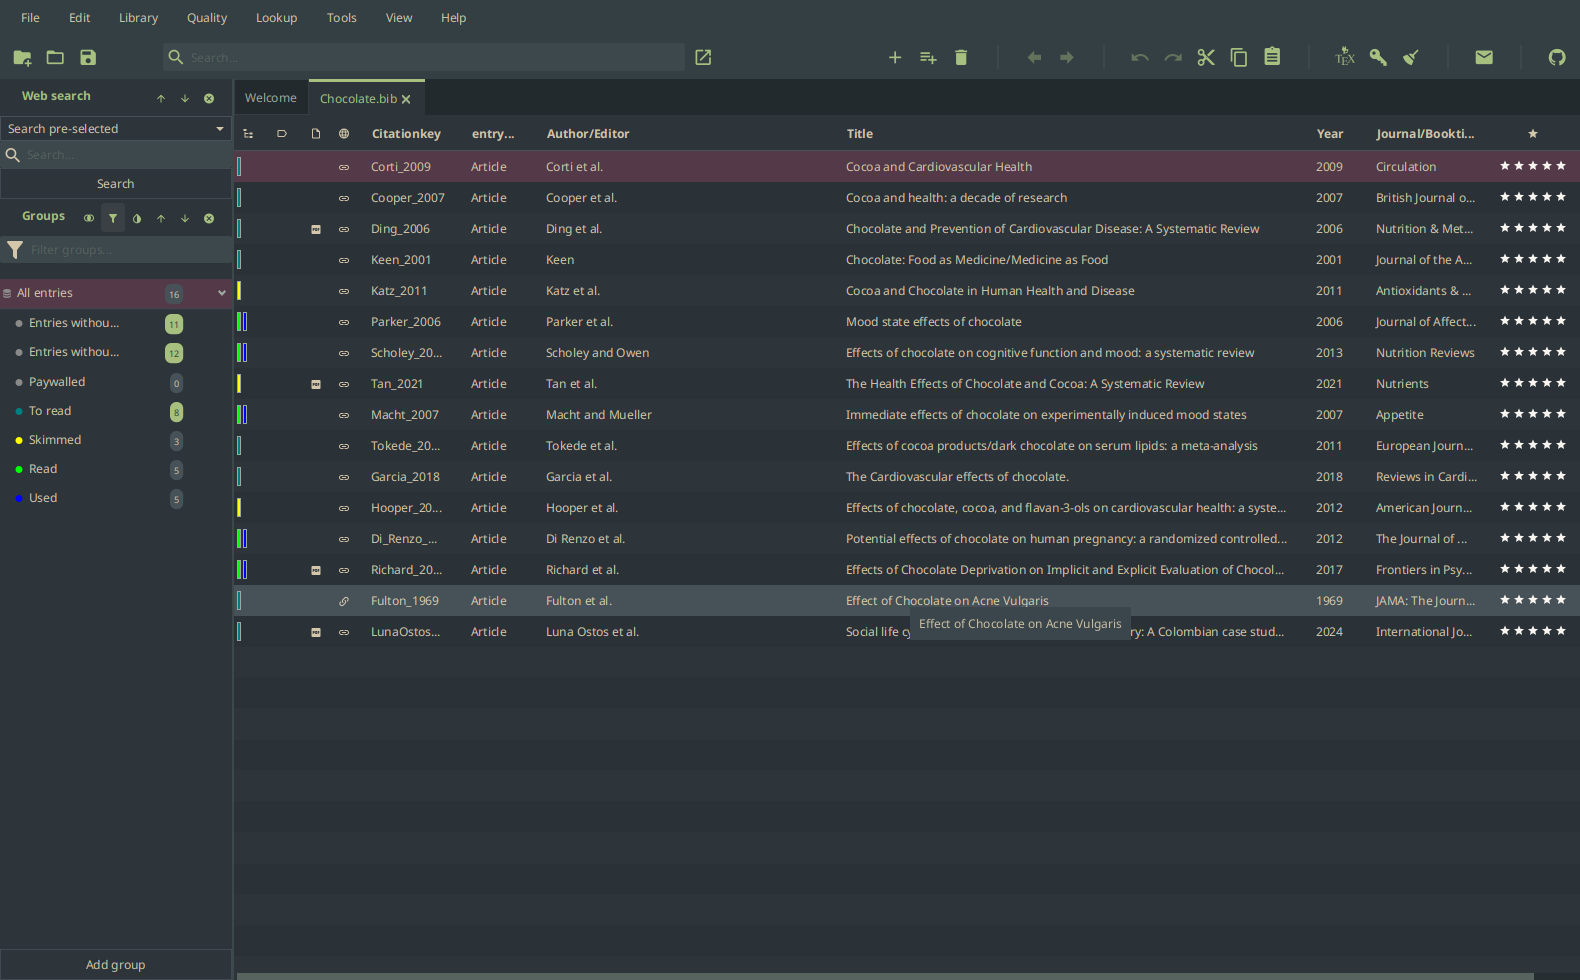
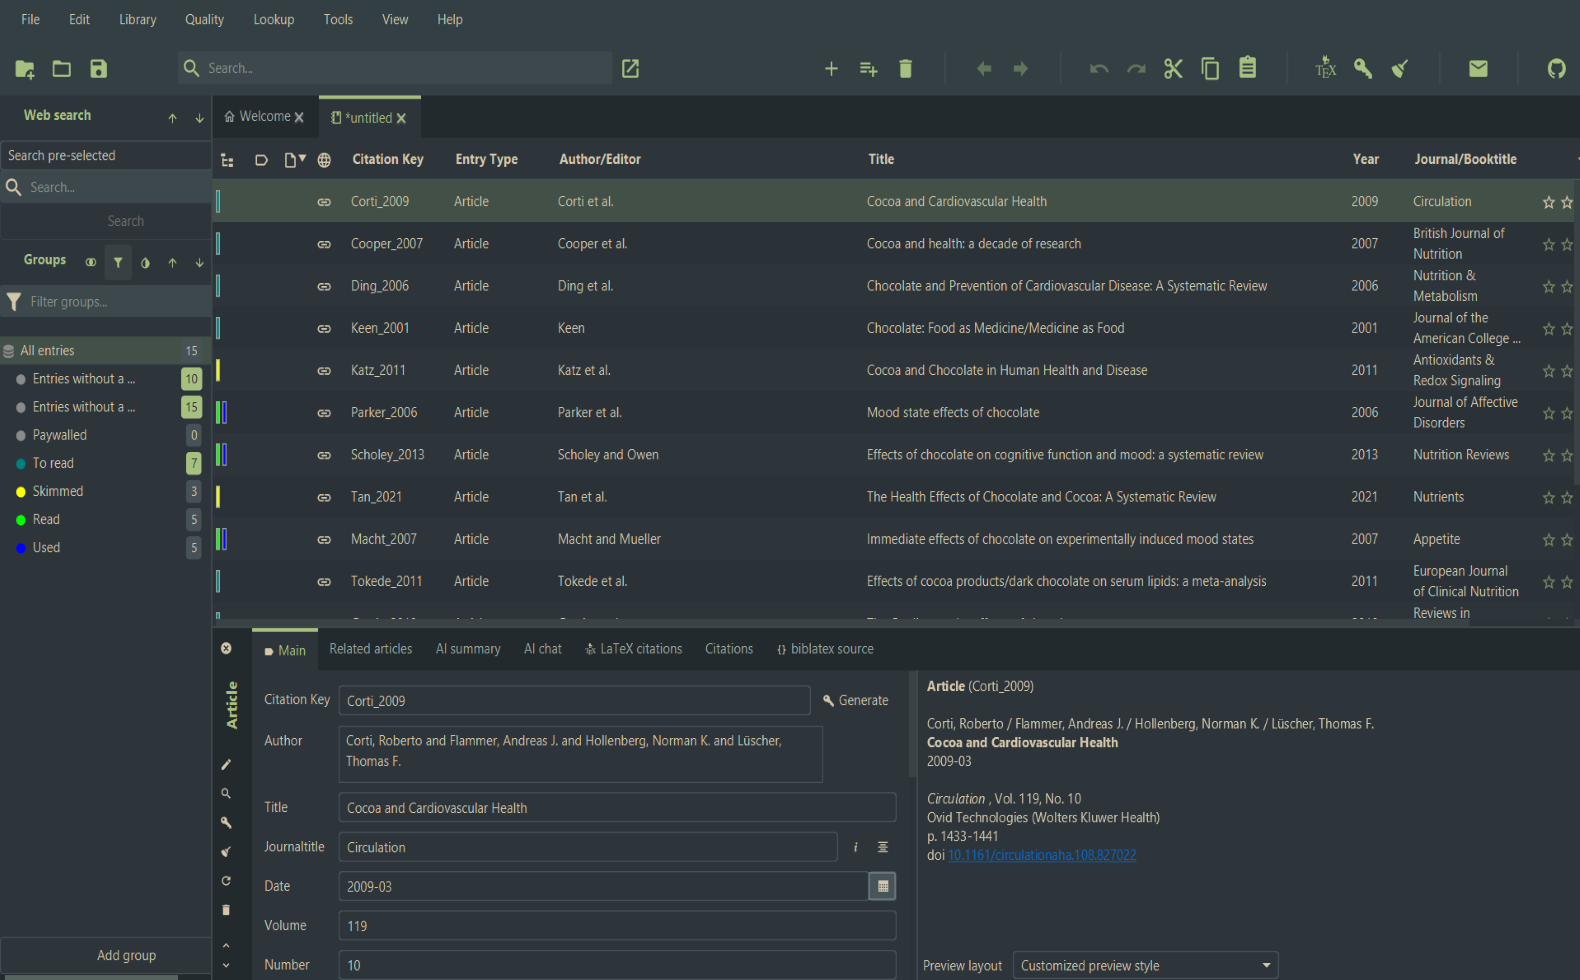
Fix everforest dark theme

diff --git a/themes/Everforest/everforest.css b/themes/Everforest/everforest.css
@@ -29,7 +29,7 @@
         -color-button-pressed: rgba(211, 198, 170, 0.20);
         -color-button-default: #425047;
 
-        -color-selection: #543A48;       /* bg_visual */
+        -color-selection: #425047;       /* bg_visual */
         -color-selection-inactive: #3D484D;
 
         -color-overlay-hover: rgba(211, 198, 170, 0.08);
